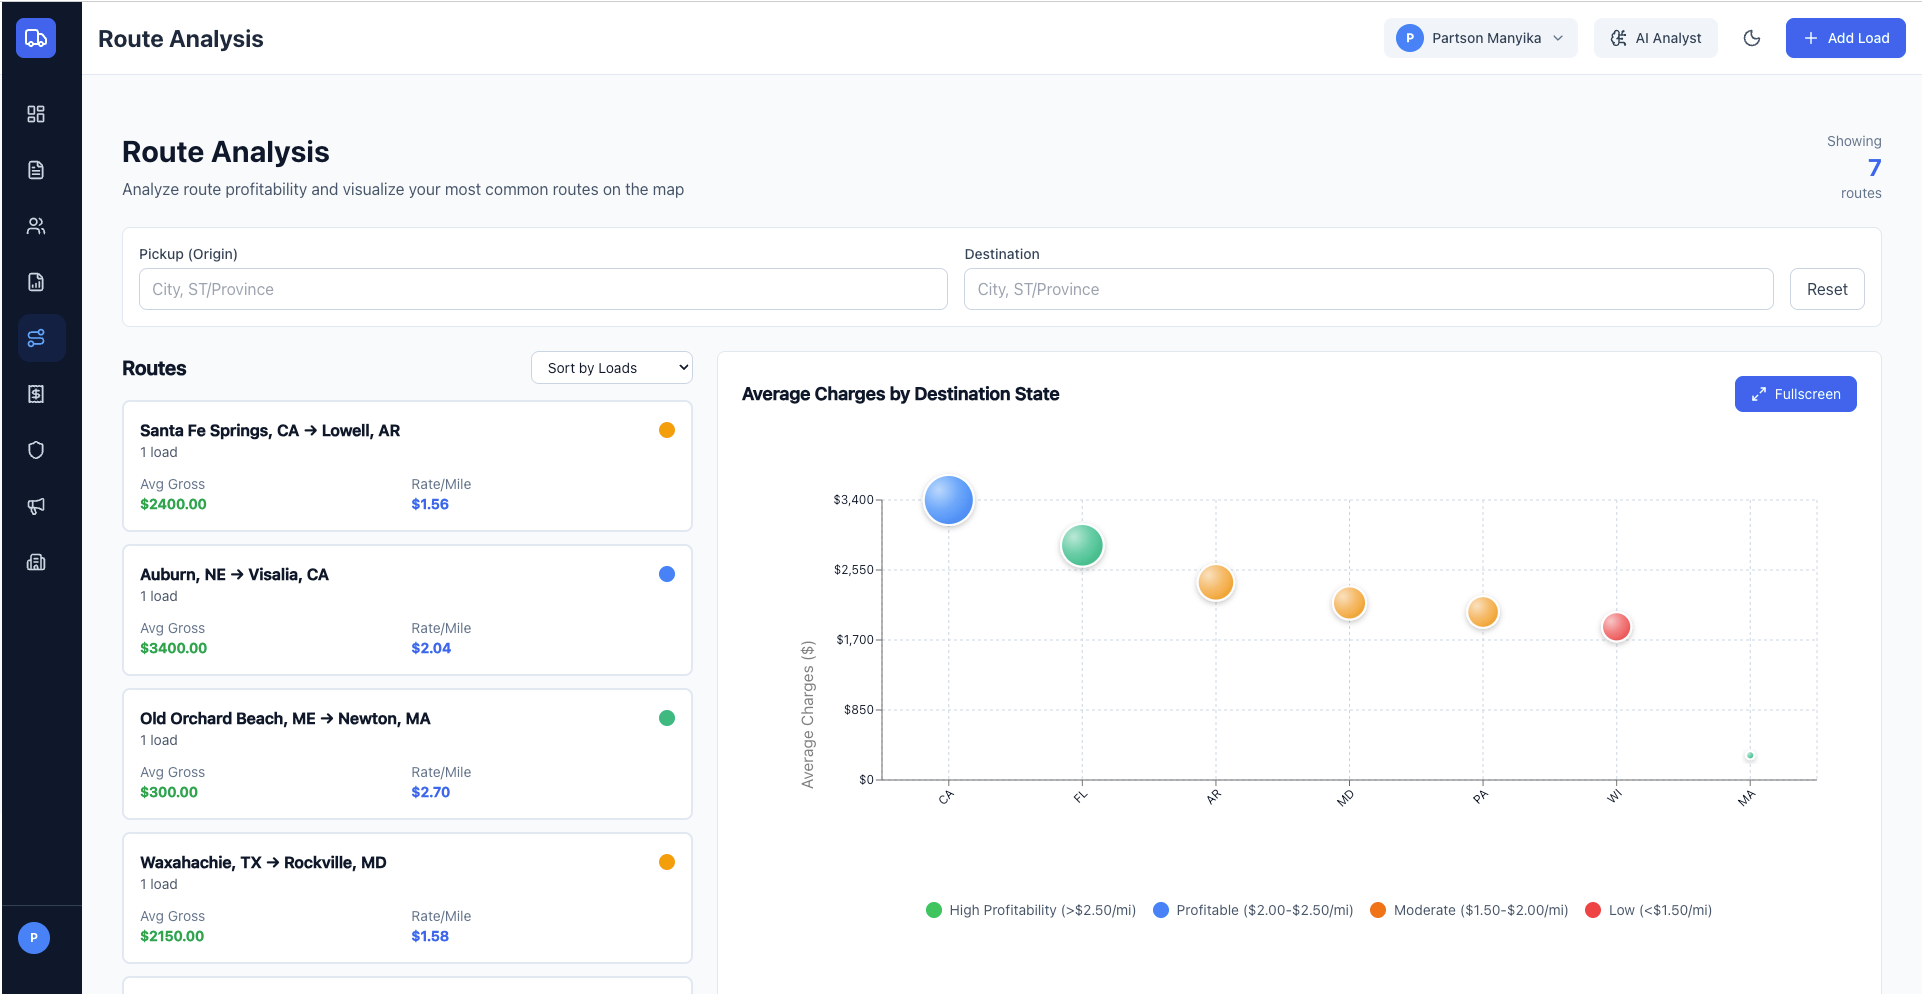
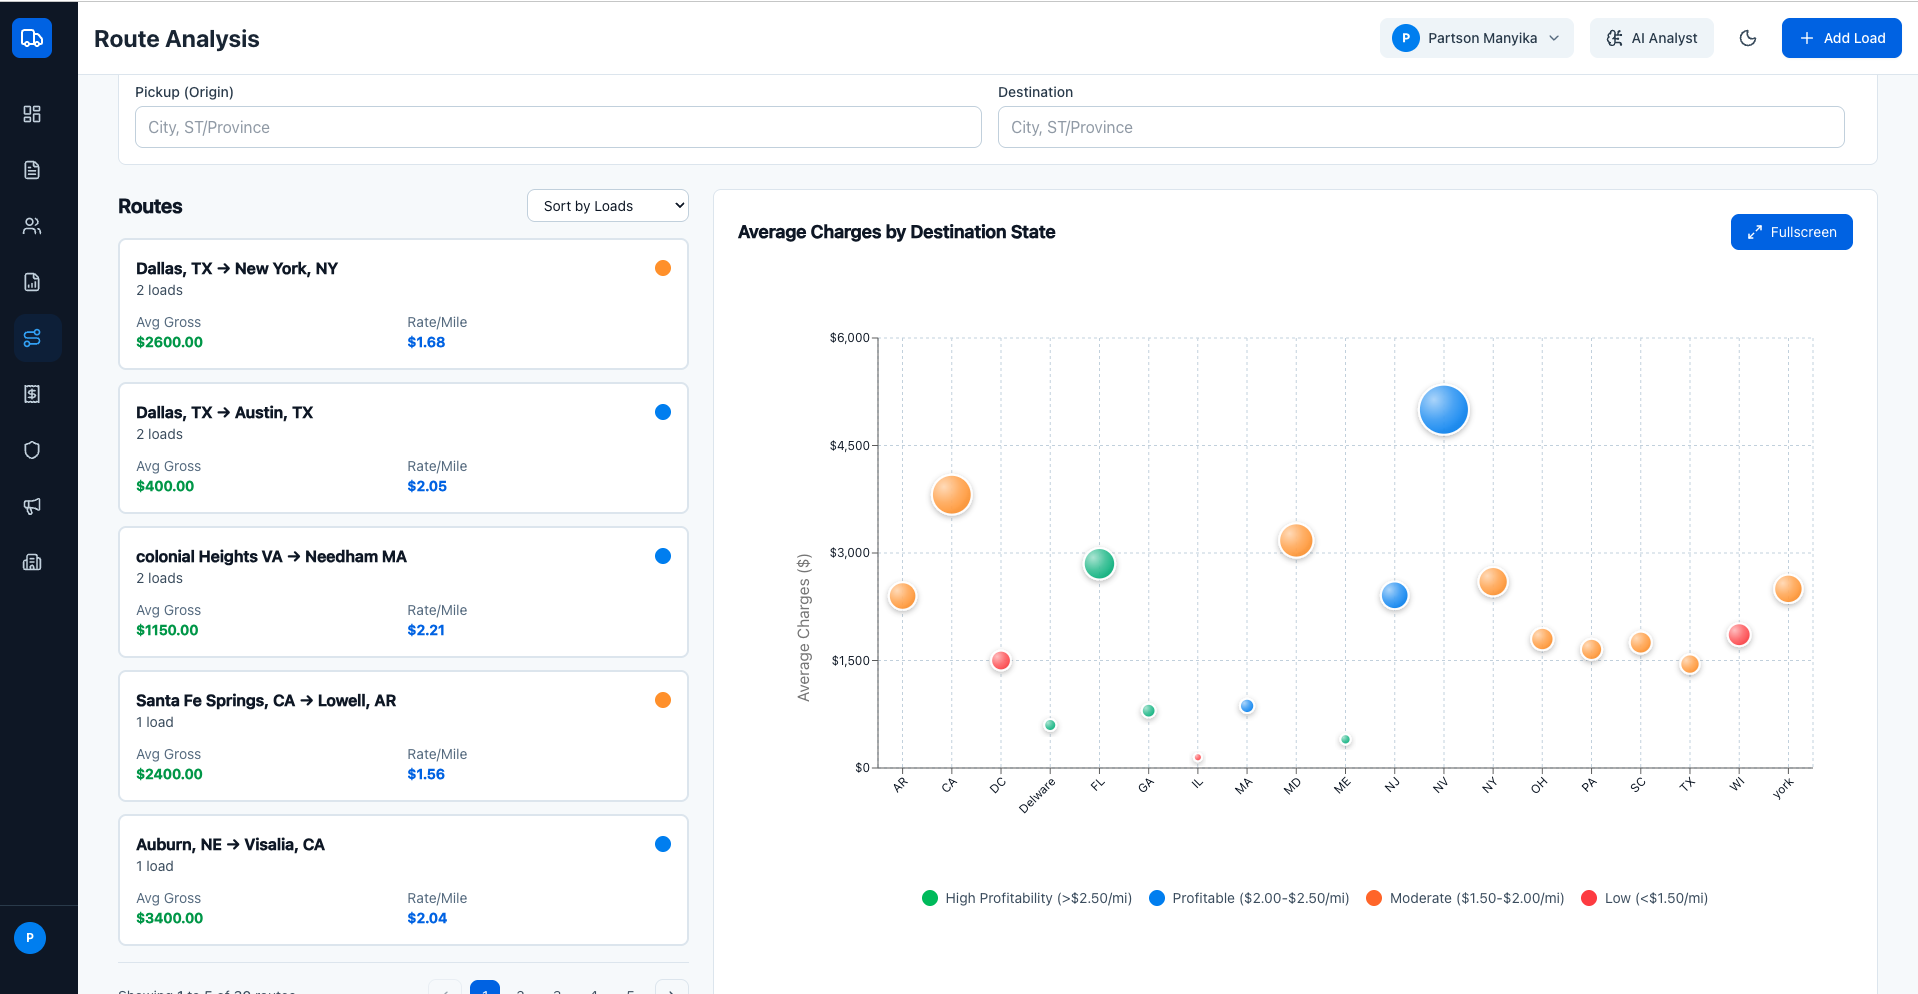
changed hero section image

diff --git a/components/RouteAnalysis.tsx b/components/RouteAnalysis.tsx
@@ -579,24 +579,11 @@ export const RouteAnalysisComponent: React.FC<RouteAnalysisProps> = ({
         <div className="mb-6">
           <div className="flex items-center justify-between">
             <div>
-              <h1 className="text-3xl font-bold text-slate-900 dark:text-slate-100 mb-2">
-                Route Analysis
-              </h1>
-              <p className="text-slate-600 dark:text-slate-400">
-                Analyze route profitability and visualize your most common
-                routes on the map
-              </p>
             </div>
             {!loading && routes.length > 0 && (
               <div className="text-right">
                 <p className="text-sm text-slate-500 dark:text-slate-400">
-                  Showing
-                </p>
-                <p className="text-2xl font-bold text-blue-600 dark:text-blue-400">
-                  {routes.length}
-                </p>
-                <p className="text-sm text-slate-500 dark:text-slate-400">
-                  {routes.length === 1 ? "route" : "routes"}
+                  Showing <span className="text-2xl font-bold text-blue-600 dark:text-blue-400">{routes.length}</span> {routes.length === 1 ? "route" : "routes"}
                 </p>
               </div>
             )}
